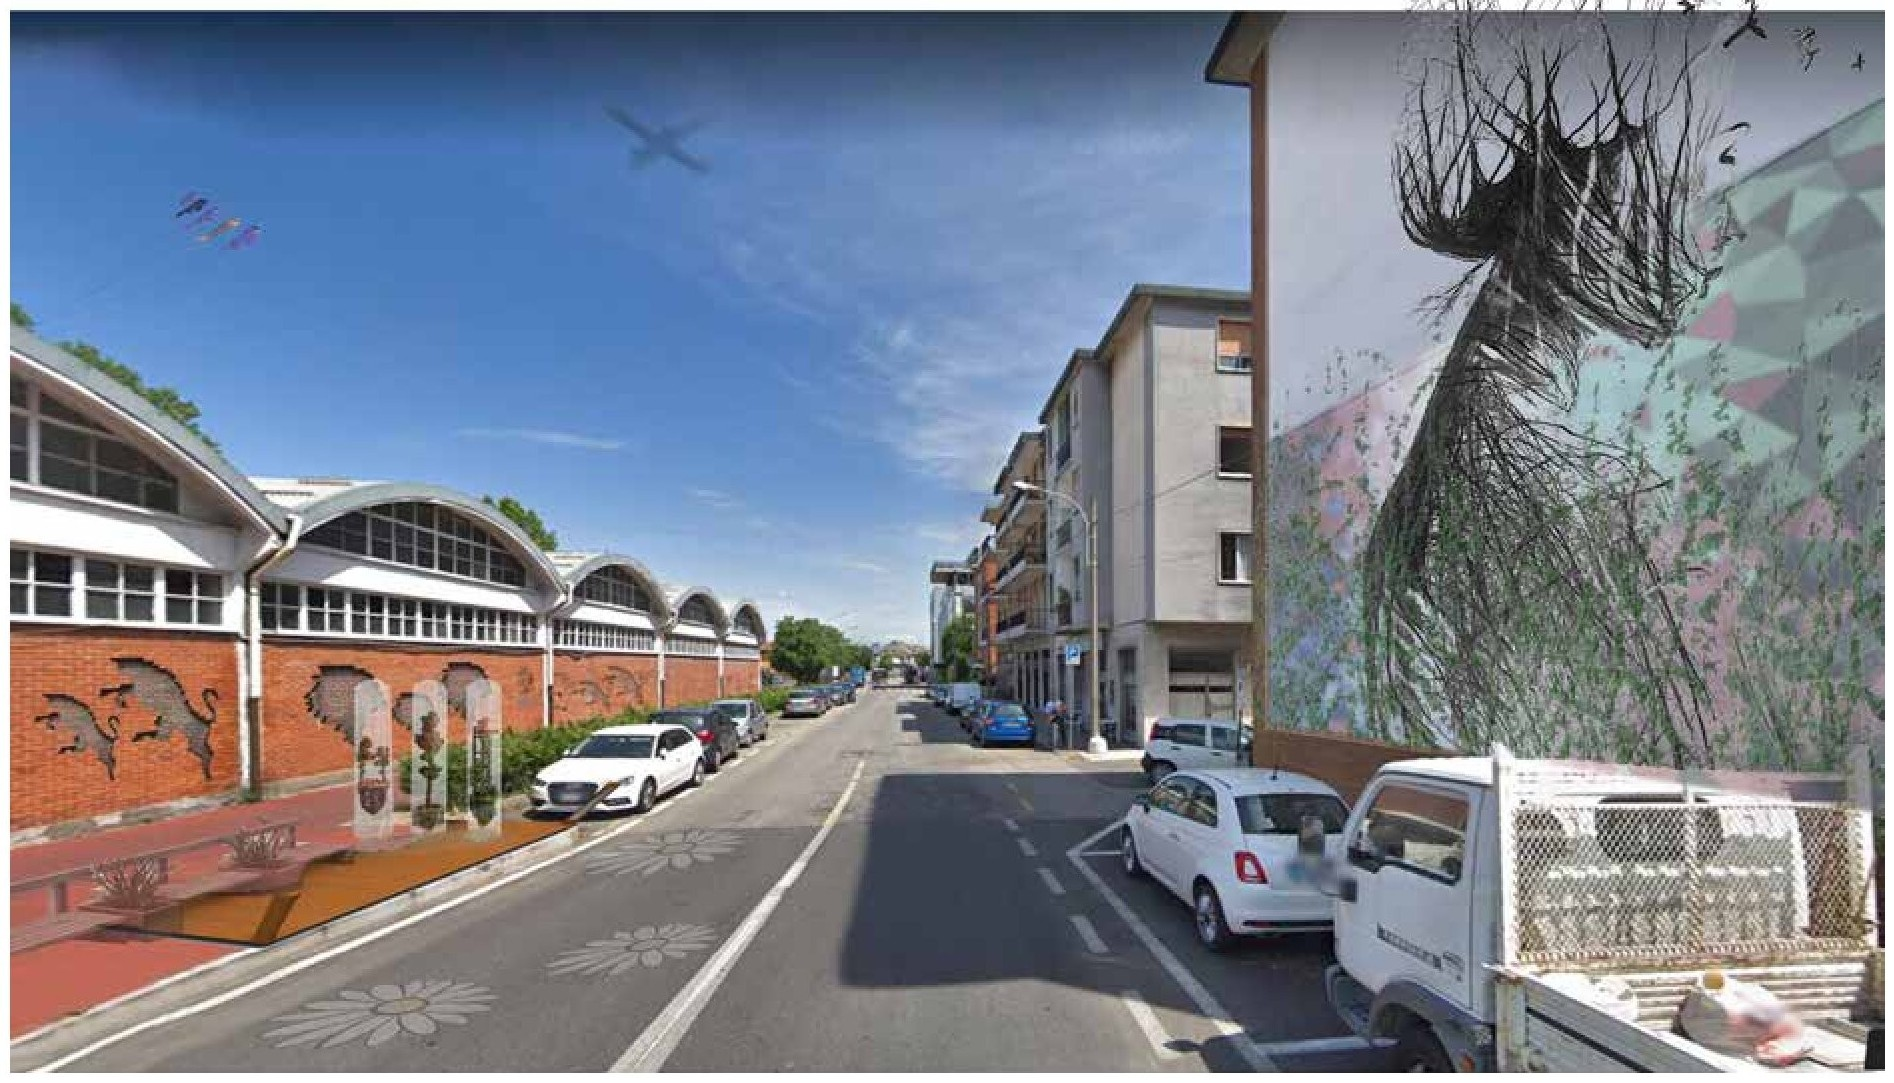
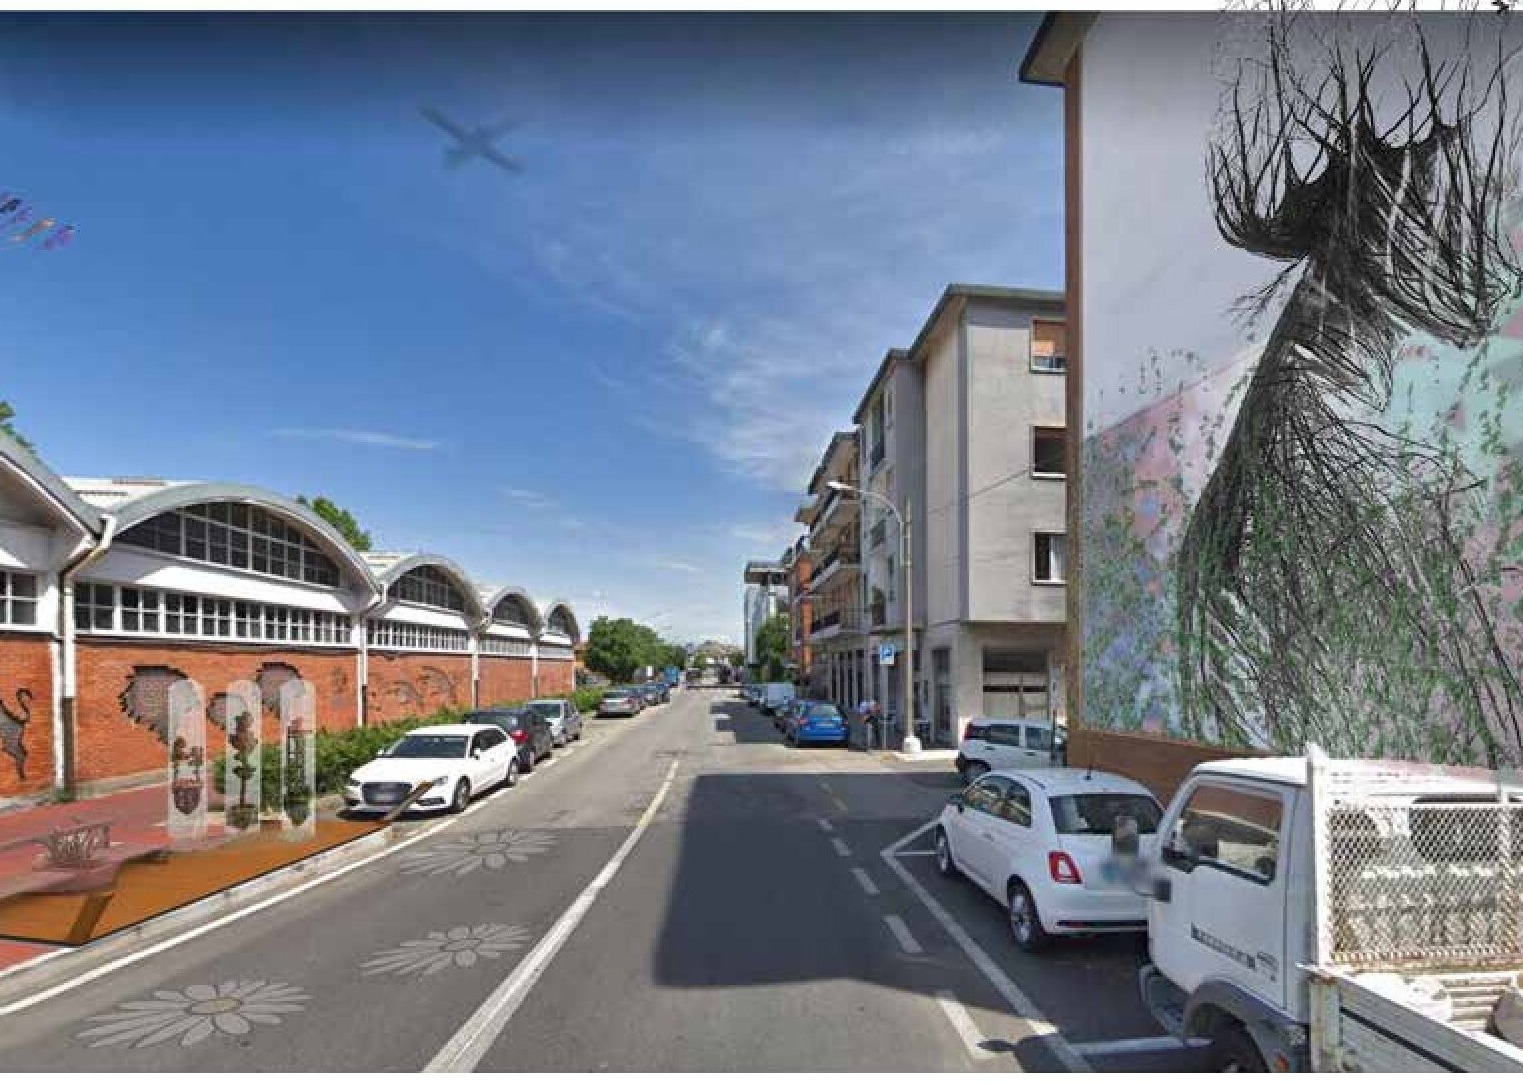
Split five-systems gallery into individual same-size photos
Split the merged Ar(t)cade and Wall Street Gallery images back into
their 4 individual photos. All 7 photos in this sequence (Urban Garden,
Chromatic Garden, Ar(t)cade x2, Wall Street Gallery x2, Village of
Curiosities) are now cropped to Urban Garden's aspect ratio and laid
out as separate compact (left-aligned, half-width) rows instead of
paired 2-up, so they read as a uniform stack.

diff --git a/src/content/projects/a04-grande-parco-forlanini/index.md b/src/content/projects/a04-grande-parco-forlanini/index.md
@@ -51,20 +51,37 @@ sections:
       - src: ./gallery-06-corelli-gallery-plan.jpg
         caption: "The Via Corelli gallery: a continuous art promenade from the city toward the Idroscalo, organised into five systems along the park's northern edge"
 
-  # The five systems — transformation vignettes, in the Behance sequence
+  # The five systems — transformation vignettes, in the Behance sequence.
+  # Each photo is its own row, capped to Urban Garden's size (compact) and
+  # left-aligned, rather than paired 2-up — all seven were cropped to Urban
+  # Garden's aspect ratio so they read as a uniform stack.
   - images:
       - src: ./gallery-07-urban-garden.jpg
         caption: "The Urban Garden — an event space to introduce artworks and host gatherings, lit for evenings so the adjacent landmark buildings register at night"
+    compact: true
+
+  - images:
       - src: ./gallery-08-chromatic-garden.jpg
         caption: "The Chromatic Garden — native species chosen to bloom in succession (cherry laurels, daisies, lilies, cherry trees, Turkish hazel), revealing nature's changing colours to passing cyclists"
+    compact: true
 
   - images:
-      - src: ./gallery-09-artcade.jpg
+      - src: ./gallery-09-artcade-a.jpg
         caption: "The Ar(t)cade — the space beneath the highway, sheltered from rain and glare, where rows of columns become canvases and the ground behind AMSA hosts large open-air installations"
+    compact: true
 
   - images:
-      - src: ./gallery-10-wall-street-gallery.jpg
+      - src: ./gallery-09-artcade-b.jpg
+    compact: true
+
+  - images:
+      - src: ./gallery-10-wall-street-gallery-a.jpg
         caption: "The Wall Street Gallery — continuous concrete and brick walls given over to graffiti, green street art, and projected light: the existing edge, and its transformation"
+    compact: true
+
+  - images:
+      - src: ./gallery-10-wall-street-gallery-b.jpg
+    compact: true
 
   - images:
       - src: ./gallery-11-village-of-curiosities.jpg
